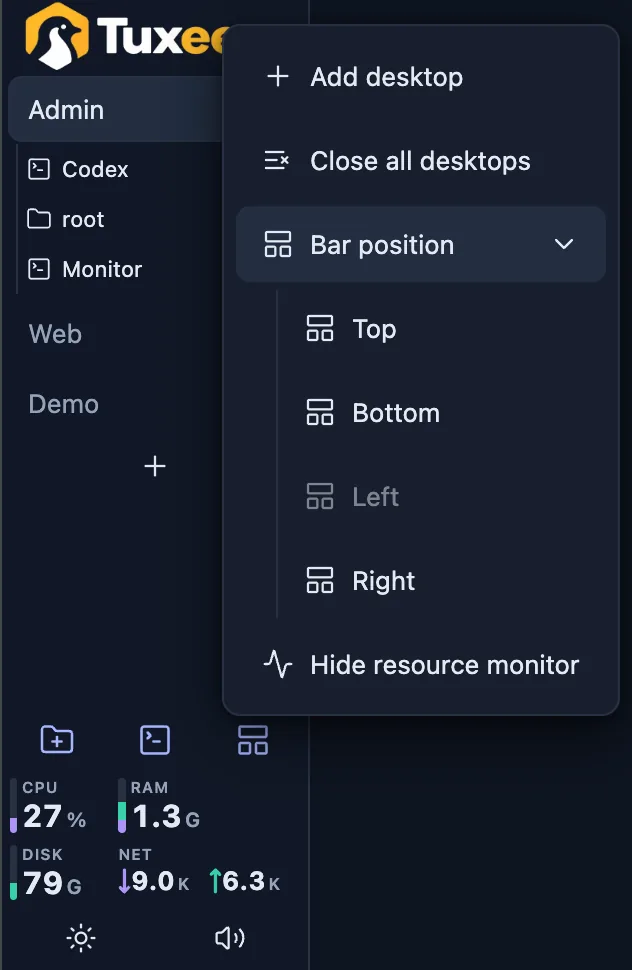
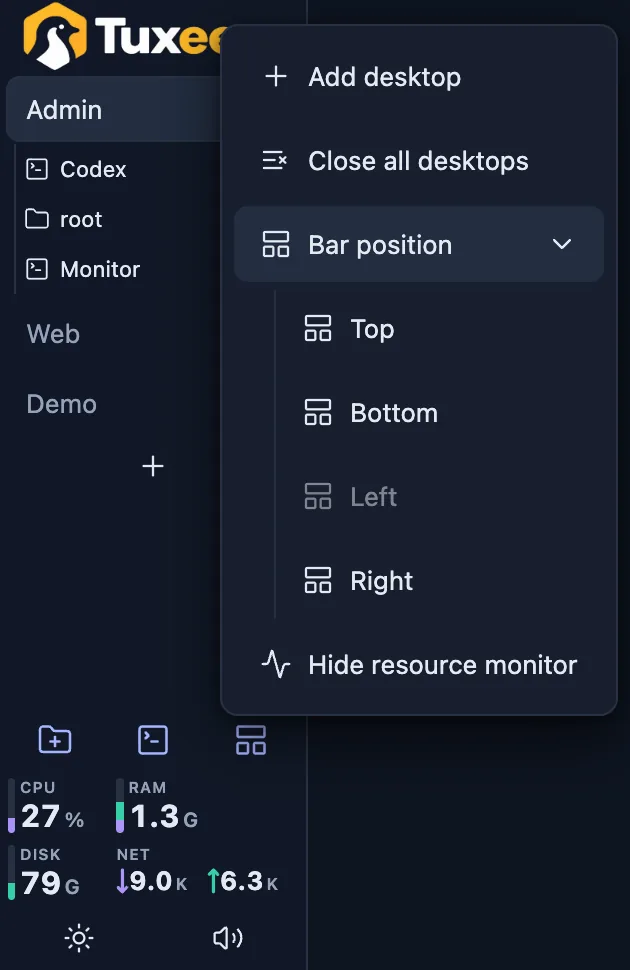
Trim the stray left edge from the How to bar position screenshot

diff --git a/web/how-to.ts b/web/how-to.ts
@@ -244,7 +244,7 @@ export function openHowTo(savedShortcuts?: ShortcutBindings) {
             const barPosition = el('section', 'howto-tip-bar-position'), barPositionCopy = el('div', 'howto-detail');
             barPositionCopy.append(el('h4', '', t('bar.position')),
                 el('p', '', t('howto.barPositionBody', { barPosition: t('bar.position'), settings: t('app.settings'), panelPosition: t('settings.panelPosition') })));
-            barPosition.append(barPositionCopy, screenshot(barPositionImage, t('howto.barPositionScreenshot'), 632, 970));
+            barPosition.append(barPositionCopy, screenshot(barPositionImage, t('howto.barPositionScreenshot'), 630, 970));
             const keyboard = el('section', 'howto-detail howto-tip-shortcuts'), keyboardBody = el('p');
             const shortcutControl = el('span', 'howto-inline-control');
             shortcutControl.append(icon('Keyboard'), el('span', '', t('shortcuts.title')));

diff --git a/web/how-to.css b/web/how-to.css
@@ -75,7 +75,7 @@
 .howto-command pre, pre.howto-command { margin: 6px 0 0; padding: 14px 16px; border-radius: 8px; background: var(--raised); color: var(--text); font-size: 14px; line-height: 1.6; white-space: pre-wrap; overflow-wrap: anywhere; text-align: left; }
 .howto-gui > section + section { padding-top: 28px; border-top: 1px solid var(--line); }
 .howto-gui-tabs > img { max-width: 375px; }
-.howto-tip-bar-position > img { max-width: 316px; justify-self: center; }
+.howto-tip-bar-position > img { max-width: 315px; justify-self: center; }
 .howto-tip-favorites > img { max-width: 597px; }
 @media (max-width: 600px) {
   .howto-modal .modal-head { grid-template-columns: minmax(0, 1fr); }

diff --git a/web/AGENTS.md b/web/AGENTS.md
@@ -93,7 +93,7 @@ Settings Connection uses `location.protocol` for the browser's transport, never 
 
 ## Account, onboarding and connection lifecycle
 
-The first action in the Tuxee menu is How to, opening `how-to.ts`’s six-page guide: Introduction, Desktops, Terminals, Files, GUI Apps and Tips. Open it automatically after authenticated workspace rendering when `howToSeen` is absent/false; save `howToSeen` only after the user closes it (the header X, Escape or an outside click), with failed-save rollback and normal error reporting. Showing it, reloading or leaving the page never sets the flag; existing accounts without a true flag also see it. Keep manual reopening available, starting at Introduction. Use the shared modal, theme-specific vertical logo on the left of the introduction copy (stacked on phones), local screenshots and unified catalogs. Replace the visible modal title and ball with compact pagination in the header, aligned vertically with Close. Keep the dots centered in the header with fixed hit targets across every page; labels grow outward from the dots with 12px gaps on desktop. Reserve all translated page-label sizes once through intrinsic grid sizing, so label changes never move the dots horizontally or vertically. Shift the group toward the start edge only when needed to clear Close, and mirror this for RTL. On phones keep the dots centered with the same Close clearance and place the arrow labels beneath. Keep 16px adjacent-page names and clickable solid dots: 8px for other pages and 16px for the selected page, without a second ring. Hide and disable Back on the first page and Forward on the last page, with stable dot positions. Forward only changes pages and never closes the guide, so rapid repeat clicks at the end cannot dismiss it; retain the shared modal dismissal controls. The introduction lists browser-based Linux control, persistent terminals across logout, a minimal headless Linux with Tuxee’s desktop experience, and that Tuxee is free/open source with no telemetry. Distinguish telemetry from automatic release checks and certificate requests; do not promise zero outbound traffic. Use larger 16px chapter buttons for all five topics, including Tips, in one column on phones. Omit icon/page-number rows from content. Guide introductions use the available content width. The Desktops page introduces persistent work grouped by purpose/project, explains adding terminal/file components through top-bar controls or desktop right-clicks, and shows those icons above the real desktop screenshot including the top-bar controls. Follow with grid arrangement and its dragging screenshot, Auto layout, then names/default directories and the menu screenshot. The arrangement section also explains dragging windows between desktops and right-clicking window headers for more options. Explain automatic rules prioritizing terminals, files or balance; render the existing Auto layout icon/label inline in the localized top-bar instruction, without translating HTML. Keep new/close-desktop keyboard hints inside the name/default-directory description block beside the screenshot. Keep only the compressed `howto-desktop*.webp` assets in this subtree (originals and export sizes are owned by [assets/AGENTS.md](../assets/AGENTS.md)); import them through the existing hashed-file build and request them only when their guide page opens, with lazy loading, asynchronous decoding and localized alt text. Keyboard hints between relevant sections use a purple Keyboard icon and muted text without a background box. Align labels and bindings in borderless table columns, preserving the existing spacing. Resolve action labels, both binding slots and platform key names through `shortcuts.ts` using current saved settings; omit disabled bindings and never hardcode shortcut text. Tips starts with Favorites, titled with the existing Favorites label: explain opening Start from the Tuxee logo, saving frequently used commands, files and folders with the + button beside Favorites, opening them in a new terminal or at their path, and right-clicking to edit or delete. Show the supplied Tuxee menu screenshot, exported 1194×620, below the copy at most 597px wide as a separate lazy, hashed `howto-tips-favorites.webp` with localized alt text. Customization follows as the second section, explaining how Server name and Color marker in Settings distinguish managed servers, followed by the supplied screenshot, exported 1086×238, and the current Settings shortcut. Use a separate lazy, hashed `howto-tips-customization.webp` with localized alt text. Follow with Process Manager as the third section: text on the left and the supplied screenshot, exported 872px wide (twice its half-column width), on the right, mirrored for RTL and stacked copy-first on phones. Explain opening Resource monitor from the top-bar resource widget or Tuxee menu, selecting Processes, and inspecting/terminating individual processes when the system is overloaded or terminals stop responding. Use the current resource-monitor shortcut and translated UI labels in the description. Keep its optimized screenshot in a separate lazy, hashed `howto-tips-processes.webp` with localized alt text. Updates is the fourth tip, with the supplied About screenshot, exported 872px wide, on the left and copy on the right, mirrored for RTL and stacked copy-first on phones. Explain checking updates from About, accessible through the Tuxee menu opened by the Tuxee logo; use the translated About label and current About shortcut. Serve the optimized `howto-tips-updates.webp` separately with lazy hashed URLs and localized alt text. All Tips images together stay below 200 KiB. Bar position is the fifth tip, reusing the `Bar position` label as its title: copy on the left explains right-clicking the top bar, choosing Bar position to move it to the bottom, left or right edge, and the same setting under Settings › Panel position, inserting all three translated labels as variables. Show the supplied 632×970 bar context-menu screenshot on the right at most 316px wide, mirrored for RTL and stacked copy-first on phones, as a separate lazy, hashed `howto-tips-bar-position.webp` with localized alt text. End Tips with Keyboard shortcuts: a text-only section explaining customization through the Tuxee menu, with its existing Keyboard icon and translated Shortcuts label inline in the sentence using the same localized-control placeholder pattern as Auto layout. Include the current Shortcuts binding; add no screenshot. Remove the previous layout/files/session cards, anchor sections and synthetic illustrations; keep fitting Tips content free of unnecessary scrolling. Home/End inside content retain native scrolling. Size the guide through the available modal height with flex layout; only the active page scrolls, with no outer/body scrollbar or unnecessary scrolling on fitting pages. Keep the header and pagination fixed, cancel superseded slides, use the desktop transition’s 220 ms/cubic-bezier(.2,.7,.2,1), honor reduced motion and mirror navigation for RTL. Support arrows, Home/End and the normal Escape/close lifecycle without changing mounted workspaces or terminals.
+The first action in the Tuxee menu is How to, opening `how-to.ts`’s six-page guide: Introduction, Desktops, Terminals, Files, GUI Apps and Tips. Open it automatically after authenticated workspace rendering when `howToSeen` is absent/false; save `howToSeen` only after the user closes it (the header X, Escape or an outside click), with failed-save rollback and normal error reporting. Showing it, reloading or leaving the page never sets the flag; existing accounts without a true flag also see it. Keep manual reopening available, starting at Introduction. Use the shared modal, theme-specific vertical logo on the left of the introduction copy (stacked on phones), local screenshots and unified catalogs. Replace the visible modal title and ball with compact pagination in the header, aligned vertically with Close. Keep the dots centered in the header with fixed hit targets across every page; labels grow outward from the dots with 12px gaps on desktop. Reserve all translated page-label sizes once through intrinsic grid sizing, so label changes never move the dots horizontally or vertically. Shift the group toward the start edge only when needed to clear Close, and mirror this for RTL. On phones keep the dots centered with the same Close clearance and place the arrow labels beneath. Keep 16px adjacent-page names and clickable solid dots: 8px for other pages and 16px for the selected page, without a second ring. Hide and disable Back on the first page and Forward on the last page, with stable dot positions. Forward only changes pages and never closes the guide, so rapid repeat clicks at the end cannot dismiss it; retain the shared modal dismissal controls. The introduction lists browser-based Linux control, persistent terminals across logout, a minimal headless Linux with Tuxee’s desktop experience, and that Tuxee is free/open source with no telemetry. Distinguish telemetry from automatic release checks and certificate requests; do not promise zero outbound traffic. Use larger 16px chapter buttons for all five topics, including Tips, in one column on phones. Omit icon/page-number rows from content. Guide introductions use the available content width. The Desktops page introduces persistent work grouped by purpose/project, explains adding terminal/file components through top-bar controls or desktop right-clicks, and shows those icons above the real desktop screenshot including the top-bar controls. Follow with grid arrangement and its dragging screenshot, Auto layout, then names/default directories and the menu screenshot. The arrangement section also explains dragging windows between desktops and right-clicking window headers for more options. Explain automatic rules prioritizing terminals, files or balance; render the existing Auto layout icon/label inline in the localized top-bar instruction, without translating HTML. Keep new/close-desktop keyboard hints inside the name/default-directory description block beside the screenshot. Keep only the compressed `howto-desktop*.webp` assets in this subtree (originals and export sizes are owned by [assets/AGENTS.md](../assets/AGENTS.md)); import them through the existing hashed-file build and request them only when their guide page opens, with lazy loading, asynchronous decoding and localized alt text. Keyboard hints between relevant sections use a purple Keyboard icon and muted text without a background box. Align labels and bindings in borderless table columns, preserving the existing spacing. Resolve action labels, both binding slots and platform key names through `shortcuts.ts` using current saved settings; omit disabled bindings and never hardcode shortcut text. Tips starts with Favorites, titled with the existing Favorites label: explain opening Start from the Tuxee logo, saving frequently used commands, files and folders with the + button beside Favorites, opening them in a new terminal or at their path, and right-clicking to edit or delete. Show the supplied Tuxee menu screenshot, exported 1194×620, below the copy at most 597px wide as a separate lazy, hashed `howto-tips-favorites.webp` with localized alt text. Customization follows as the second section, explaining how Server name and Color marker in Settings distinguish managed servers, followed by the supplied screenshot, exported 1086×238, and the current Settings shortcut. Use a separate lazy, hashed `howto-tips-customization.webp` with localized alt text. Follow with Process Manager as the third section: text on the left and the supplied screenshot, exported 872px wide (twice its half-column width), on the right, mirrored for RTL and stacked copy-first on phones. Explain opening Resource monitor from the top-bar resource widget or Tuxee menu, selecting Processes, and inspecting/terminating individual processes when the system is overloaded or terminals stop responding. Use the current resource-monitor shortcut and translated UI labels in the description. Keep its optimized screenshot in a separate lazy, hashed `howto-tips-processes.webp` with localized alt text. Updates is the fourth tip, with the supplied About screenshot, exported 872px wide, on the left and copy on the right, mirrored for RTL and stacked copy-first on phones. Explain checking updates from About, accessible through the Tuxee menu opened by the Tuxee logo; use the translated About label and current About shortcut. Serve the optimized `howto-tips-updates.webp` separately with lazy hashed URLs and localized alt text. All Tips images together stay below 200 KiB. Bar position is the fifth tip, reusing the `Bar position` label as its title: copy on the left explains right-clicking the top bar, choosing Bar position to move it to the bottom, left or right edge, and the same setting under Settings › Panel position, inserting all three translated labels as variables. Show the supplied bar context-menu screenshot, exported 630×970, on the right at most 315px wide, mirrored for RTL and stacked copy-first on phones, as a separate lazy, hashed `howto-tips-bar-position.webp` with localized alt text. End Tips with Keyboard shortcuts: a text-only section explaining customization through the Tuxee menu, with its existing Keyboard icon and translated Shortcuts label inline in the sentence using the same localized-control placeholder pattern as Auto layout. Include the current Shortcuts binding; add no screenshot. Remove the previous layout/files/session cards, anchor sections and synthetic illustrations; keep fitting Tips content free of unnecessary scrolling. Home/End inside content retain native scrolling. Size the guide through the available modal height with flex layout; only the active page scrolls, with no outer/body scrollbar or unnecessary scrolling on fitting pages. Keep the header and pagination fixed, cancel superseded slides, use the desktop transition’s 220 ms/cubic-bezier(.2,.7,.2,1), honor reduced motion and mirror navigation for RTL. Support arrows, Home/End and the normal Escape/close lifecycle without changing mounted workspaces or terminals.
 
 The Terminals guide's opening paragraph covers persistence across disconnection, logout and Tuxee restart and AI-agent work. The Post mortem section must not imply that restarts or updates end terminals: it says terminals are resilient, then that lost or closed terminals become archived text transcripts including full-screen app snapshots, for reviewing earlier work. The guide also covers retained terminals, the input drawer, text snapshots, files/clipboard and Settings. Below the wide Post mortem screenshot, explain opening Retained terminals from the Tuxee menu to find lost or closed terminals, with its screenshot on the right at most 300px wide. Place the drawer screenshot on the left and the text-view screenshot on the right, each at most 360px wide, alternating from the retained-terminals image on the right. Stack copy before images on phones. Keep the main, archive and files screenshots wide. Use the supplied screenshots converted to optimized `howto-terminal-*.webp` assets at full resolution, capped at twice their rendered width per [assets/AGENTS.md](../assets/AGENTS.md) (under 320 KiB combined), with lazy hashed URLs and localized alt text. Use current action bindings and the actual input-drawer hint. Distinguish existing Tuxee paths from computer files/screenshots uploaded to `~/uploads`; inserting paths never submits them. Omit the read-only reminder and the instruction to submit input when ready.
 

diff --git a/assets/AGENTS.md b/assets/AGENTS.md
@@ -39,7 +39,8 @@ desktop menu). Use quality around 82, keep size budgets from `web/AGENTS.md`
 and update the width/height passed to `screenshot()` in `web/how-to.ts` and
 `tests/how-to.mjs`. Crop exports, never the originals, so the guide's own
 border frames clean content: drop the 4px capture line above the Tips favorites
-and customization screenshots, and crop the Tips processes screenshot to the
+and customization screenshots and the 2px line left of the Tips bar-position
+screenshot, and crop the Tips processes screenshot to the
 inside of the modal border (11,17–1807,1603 of the original) so no page
 backdrop remains. README copies follow `.github/resources/AGENTS.md`.
 
